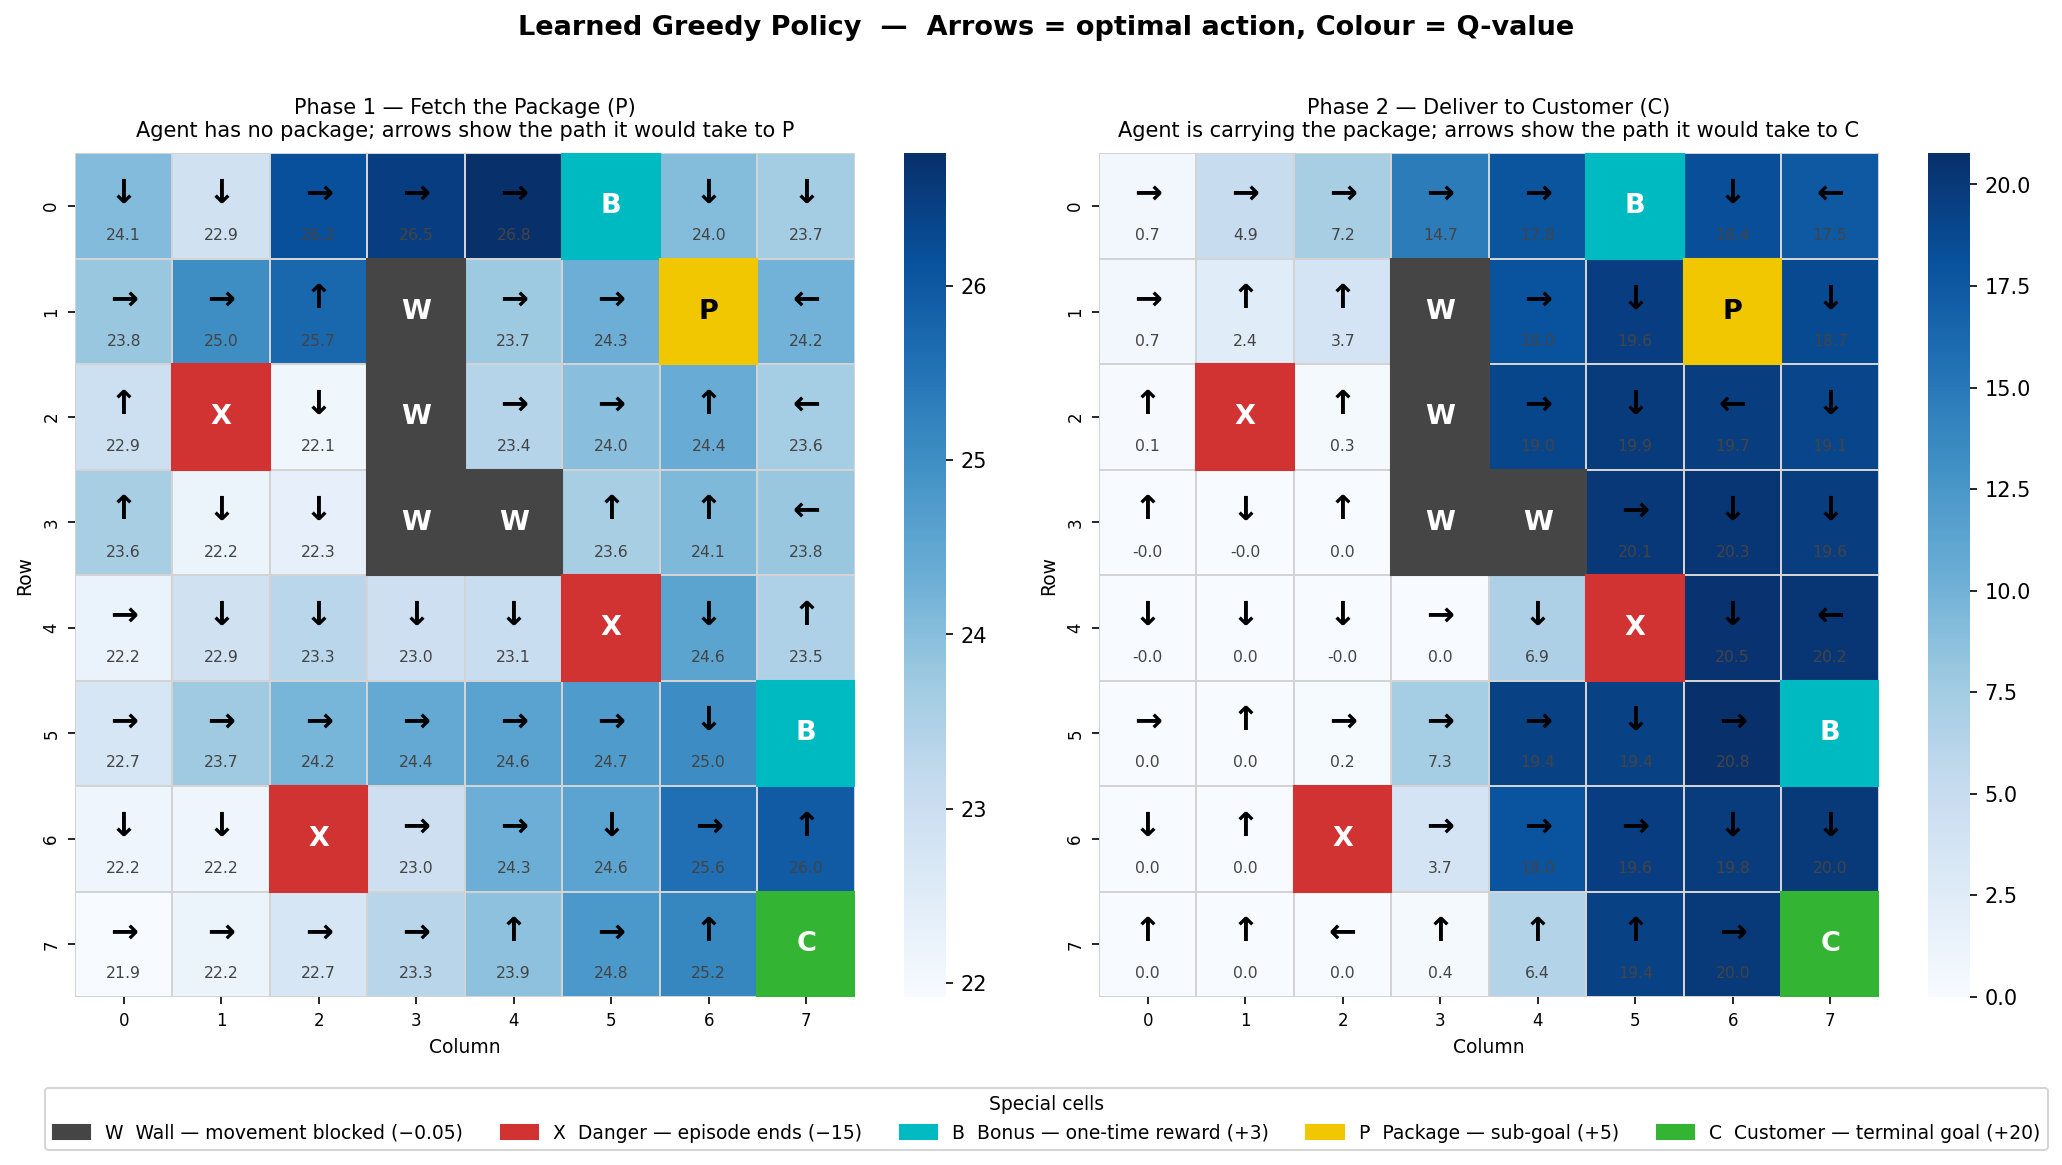
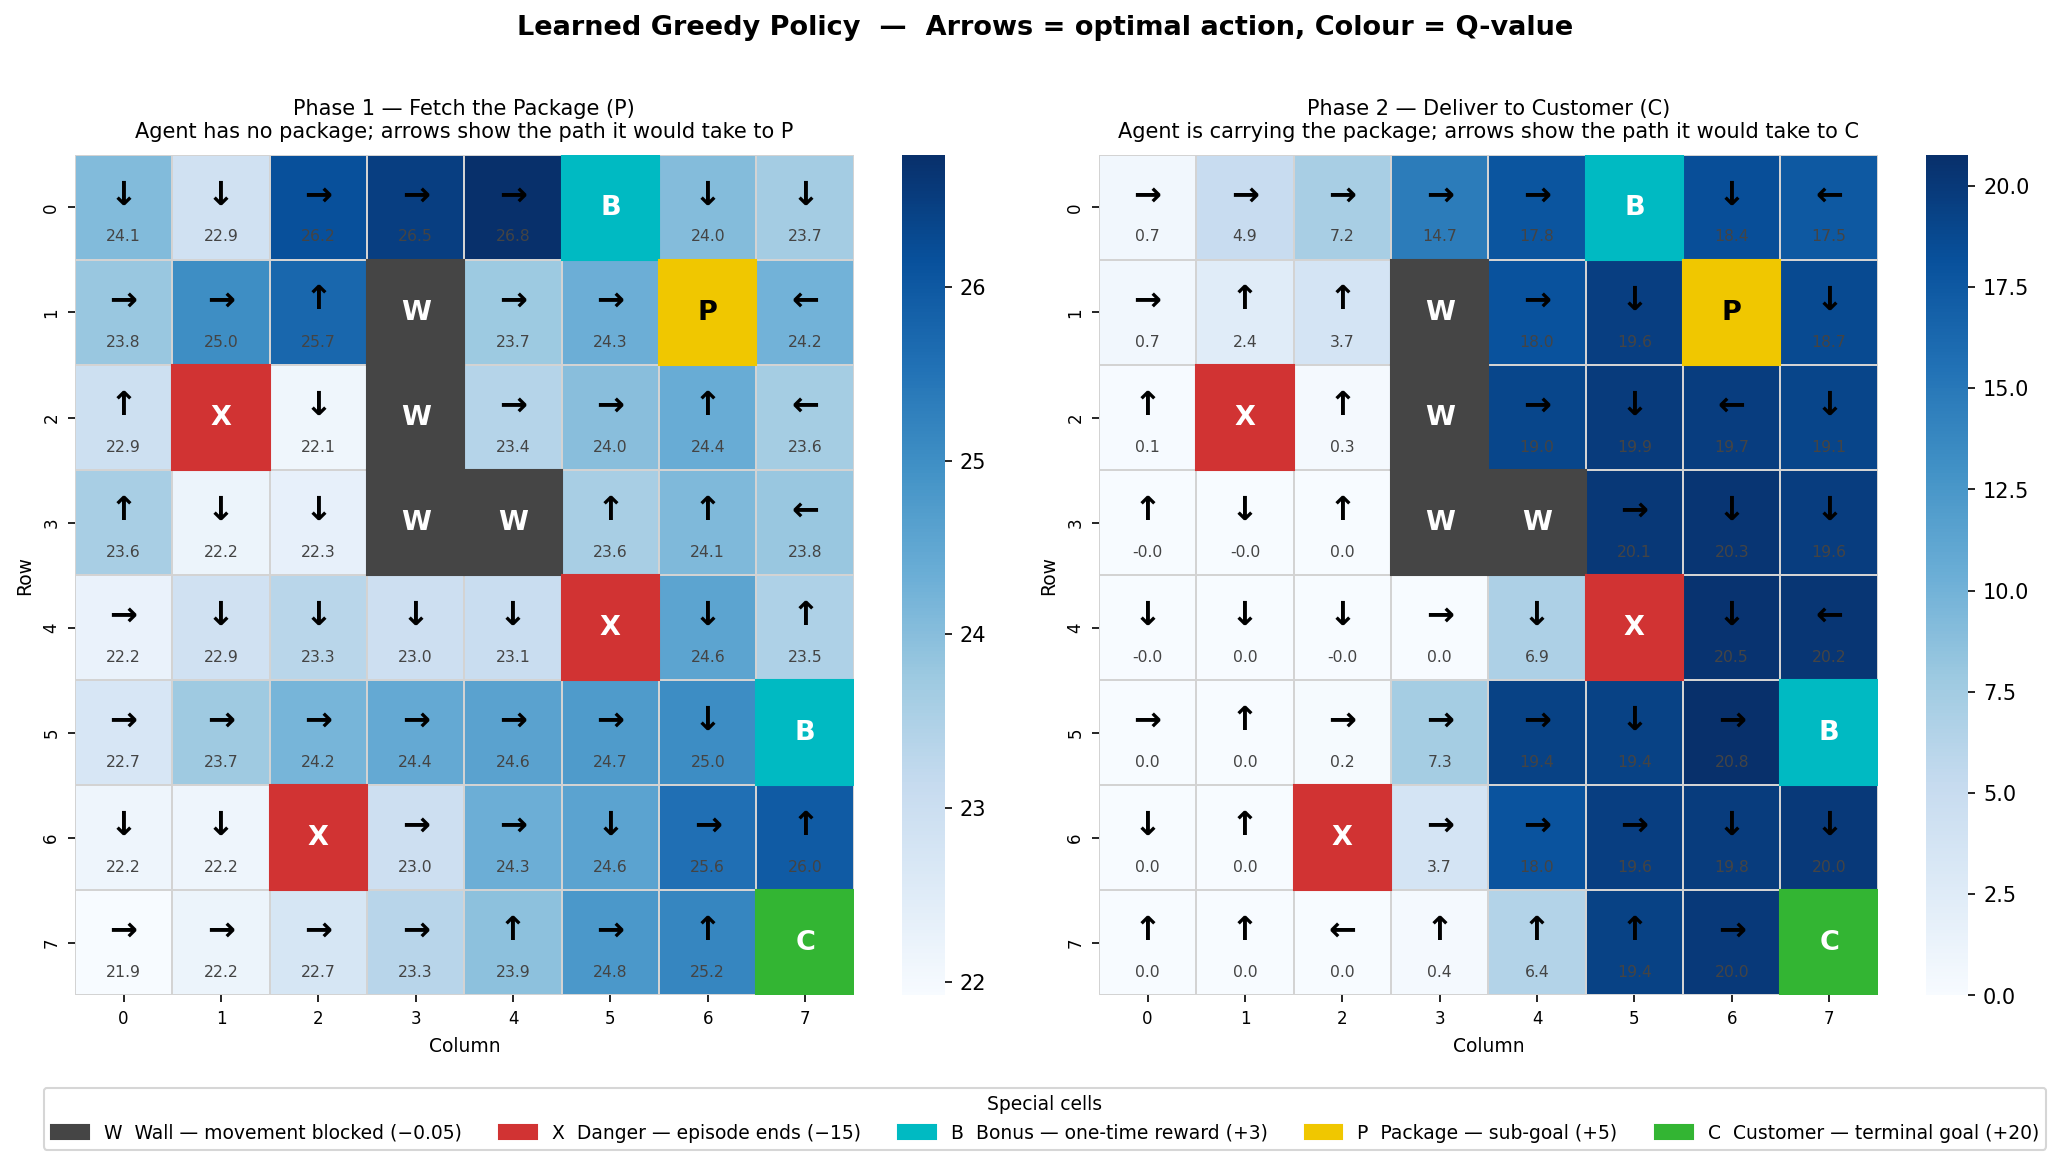
Fix submission issues: remove plt.show() blocking, fix stale folder refs, add q_table_plot
- Replace plt.show() with plt.close() in visualize() and visualize_q_table()
  so main.py never blocks waiting for a window when run for submission
- Suppress tight_layout UserWarning from shared colorbar axis in q_table plot
- Fix stale 'final_project/' references in main.py, experiments.py, PROJECT_DOC.md
- Fix duplicate section '8.' heading in PROJECT_DOC.md (renamed second to '9.')
- Commit q_table_plot.png (full Q-table heatmap showing all Q(s,a) pairs)

diff --git a/project_a/q_learning.py b/project_a/q_learning.py
@@ -221,7 +221,7 @@ def visualize(agent, env, output_dir=None):
     path = out / "policy_plot.png"
     plt.savefig(path, dpi=150, bbox_inches="tight")
     print(f"Policy plot saved → {path}")
-    plt.show()
+    plt.close()
 
 
 def visualize_q_table(agent, env, output_dir=None):
@@ -349,9 +349,12 @@ def visualize_q_table(agent, env, output_dir=None):
     fig.legend(handles=legend_handles, loc="lower center", ncol=5,
                frameon=True, fontsize=9, bbox_to_anchor=(0.45, -0.02))
 
-    plt.tight_layout()
+    import warnings
+    with warnings.catch_warnings():
+        warnings.simplefilter("ignore")
+        plt.tight_layout()
     out  = Path(output_dir) if output_dir else Path(__file__).parent
     path = out / "q_table_plot.png"
     plt.savefig(path, dpi=150, bbox_inches="tight")
     print(f"Q-table plot saved → {path}")
-    plt.show()
+    plt.close()

diff --git a/project_a/experiments.py b/project_a/experiments.py
@@ -53,7 +53,7 @@ import matplotlib.ticker as ticker
 from env import DeliveryRobotEnv
 from q_learning import QLearningAgent, train_and_record
 
-HERE = Path(__file__).parent   # always saves outputs into final_project/
+HERE = Path(__file__).parent   # always saves outputs into project_a/
 
 # ---------------------------------------------------------------------------
 # Shared settings — kept constant across ALL experiments

diff --git a/project_a/main.py b/project_a/main.py
@@ -2,7 +2,7 @@ from pathlib import Path
 from env import DeliveryRobotEnv
 from q_learning import QLearningAgent, train, visualize, visualize_q_table
 
-HERE = Path(__file__).parent   # always points to final_project/
+HERE = Path(__file__).parent   # always points to project_a/
 
 # ── Settings ──────────────────────────────────────────────────────────────────
 do_train        = True

diff --git a/project_a/PROJECT_DOC.md b/project_a/PROJECT_DOC.md
@@ -305,7 +305,7 @@ The experiments highlight two practical lessons:
 ## 8. Project Structure
 
 ```
-final_project/
+project_a/
 ├── env.py            # The environment: grid, rewards, special states
 ├── q_learning.py     # The agent: Q-table, Bellman update, train, visualize
 ├── main.py           # Train and visualize the final agent
@@ -316,11 +316,11 @@ final_project/
 
 ---
 
-## 8. How to Run
+## 9. How to Run
 
 **Train the final agent and show the policy plot:**
 ```bash
-cd final_project
+cd project_a
 python main.py
 ```
 